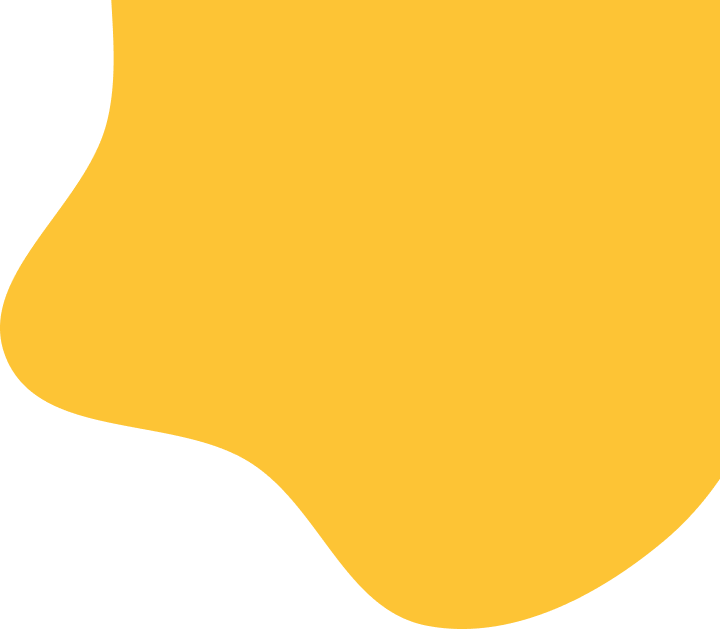
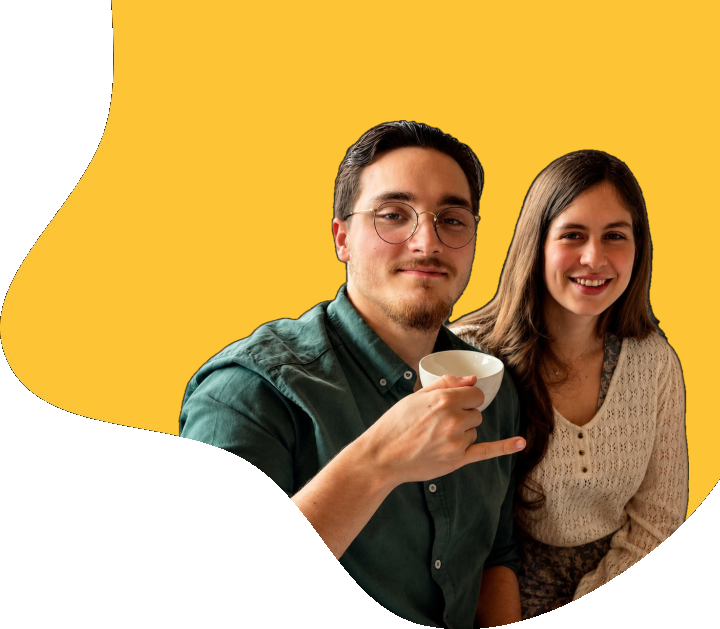
Projet v2

diff --git a/src/components/Hero.tsx b/src/components/Hero.tsx
@@ -12,10 +12,10 @@ export default function Hero() {
       <div
         style={{
           position: 'absolute',
-          right: '-80px',
-          top: '-248px',
-          width: '777px',
-          height: '877px',
+          right: '-50px',
+          top: '-10px',
+          width: '830px',
+          height: '725px',
           zIndex: 1,
           pointerEvents: 'none',
         }}

diff --git a/README.md b/README.md
@@ -1,8 +1,16 @@
+## /!\ Précisions
+
+Dans le projet, les textes des avis dans les témoignages sont générés par IA, à
+des fins de démonstration. Les photos
+proviennent de [pravatar.cc](https://pravatar.cc) (photos libres de droits).
+Ce contenu peut être modifié ou supprimé à tout moment depuis
+`/admin/testimonials`.
+
 # Portefolio
 
-Ce projet est mon portfolio personnel, fait dans le cadre du challenge
+Ce projet est notre portfolio, fait en binôme dans le cadre du challenge
 front-end de l'école (React + TypeScript + Tailwind). L'objectif c'est de
-présenter mes projets, mon parcours, et de permettre aux gens de me
+présenter nos projets, notre parcours, et de permettre aux gens de nous
 contacter facilement, tout en ayant une petite interface d'administration
 pour gérer le contenu sans avoir à toucher au code à chaque fois.
 
@@ -15,10 +23,10 @@ pour gérer le contenu sans avoir à toucher au code à chaque fois.
 - **Vite** : pour le serveur de dev et le build, parce que c'est rapide et
   que la config est plus simple qu'avec Webpack.
 - **Tailwind CSS** : pour certains éléments (la navbar par exemple), même si
-  finalement j'ai utilisé beaucoup de styles inline aussi pour respecter
-  precisement les couleurs et tailles du design Figma. Avec le recul
-  j'aurais peut-être dû choisir une seule approche dès le début, mais ça
-  fonctionne quand même.
+  finalement nous avons utilisé beaucoup de styles inline aussi pour
+  respecter precisement les couleurs et tailles du design Figma. Avec le
+  recul nous aurions peut-être dû choisir une seule approche dès le début,
+  mais ça fonctionne quand même.
 - **react-router-dom v7** : pour la navigation entre les pages (Accueil,
   Contact, détails d'un projet, pages admin...) et pour le code splitting
   avec `React.lazy` + `Suspense`, qui est obligatoire dans le cahier des
@@ -33,9 +41,9 @@ pour gérer le contenu sans avoir à toucher au code à chaque fois.
 
 ## Pourquoi Firebase
 
-J'ai choisi Firebase (Authentication + Firestore) parce que c'était la
-solution qui me permettait d'avoir un vrai backend fonctionnel sans avoir à
-écrire et héberger un serveur moi-même, ce qui n'était clairement pas le
+Nous avons choisi Firebase (Authentication + Firestore) parce que c'était la
+solution qui nous permettait d'avoir un vrai backend fonctionnel sans avoir à
+écrire et héberger un serveur nous-mêmes, ce qui n'était clairement pas le
 sujet du challenge (le sujet c'est le front-end).
 
 - **Firebase Authentication (Google)** sert à protéger les routes `/admin/*`.
@@ -61,16 +69,30 @@ les règles de sécurité doivent autoriser la lecture publique de `projects` et
 `testimonials`, la création publique sur `contacts`, et le reste uniquement
 pour les utilisateurs connectés. Sinon tout reste bloqué et les pages
 affichent juste "aucun projet" ou "impossible de charger" sans message
-d'erreur très explicite, ce qui m'a pas mal fait galérer au début
+d'erreur très explicite, ce qui nous a pas mal fait galérer au début
 honnêtement.
+
+## Accès à l'administration
+
+Pour simplifier la connexion (et ne pas avoir à gérer un système d'invitation
+pour ce projet étudiant), **n'importe quel compte Google** peut se connecter
+via `/login` et accéder aux pages `/admin/*` : il n'y a pas de vérification
+d'adresse e-mail dans `RequireAuth`, ni dans les règles de sécurité Firestore.
+Le seul critère, c'est d'être authentifié.
+
+Dans un vrai contexte de production, nous aurions plutôt mis en place une liste
+blanche d'adresses e-mail autorisées (ou un rôle stocké dans Firestore),
+vérifiée côté client et dans les règles de sécurité Firestore, avec une
+invitation des nouveaux administrateurs plutôt qu'un accès libre à toute
+personne possédant un compte Google.
 
 ## Pourquoi EmailJS
 
 Le formulaire de contact enregistre déjà le message dans Firestore (visible
 depuis `/admin/contacts`), mais ça veut dire qu'il faut aller vérifier
-l'admin régulièrement pour voir si quelqu'un a écrit. J'ai donc ajouté
+l'admin régulièrement pour voir si quelqu'un a écrit. Nous avons donc ajouté
 **EmailJS** (`@emailjs/browser`) pour qu'un vrai email soit envoyé
-directement à mon adresse dès qu'un visiteur envoie le formulaire.
+directement à notre adresse dès qu'un visiteur envoie le formulaire.
 
 L'intérêt d'EmailJS c'est que ça envoie l'email directement depuis le
 navigateur, sans avoir besoin d'un serveur ou d'une fonction backend (ce
@@ -79,7 +101,7 @@ de créer un compte EmailJS, de relier sa boîte Gmail, de créer un template
 d'email, et de mettre les identifiants (Service ID, Template ID, Public Key)
 dans le `.env`. C'est sûrement pas la solution la plus "professionnelle"
 niveau sécurité (la clé publique se retrouve dans le code côté client), mais
-pour un portfolio étudiant je trouve que ça fait largement le travail.
+pour un portfolio étudiant nous trouvons que ça fait largement le travail.
 
 ## Structure du projet
 
